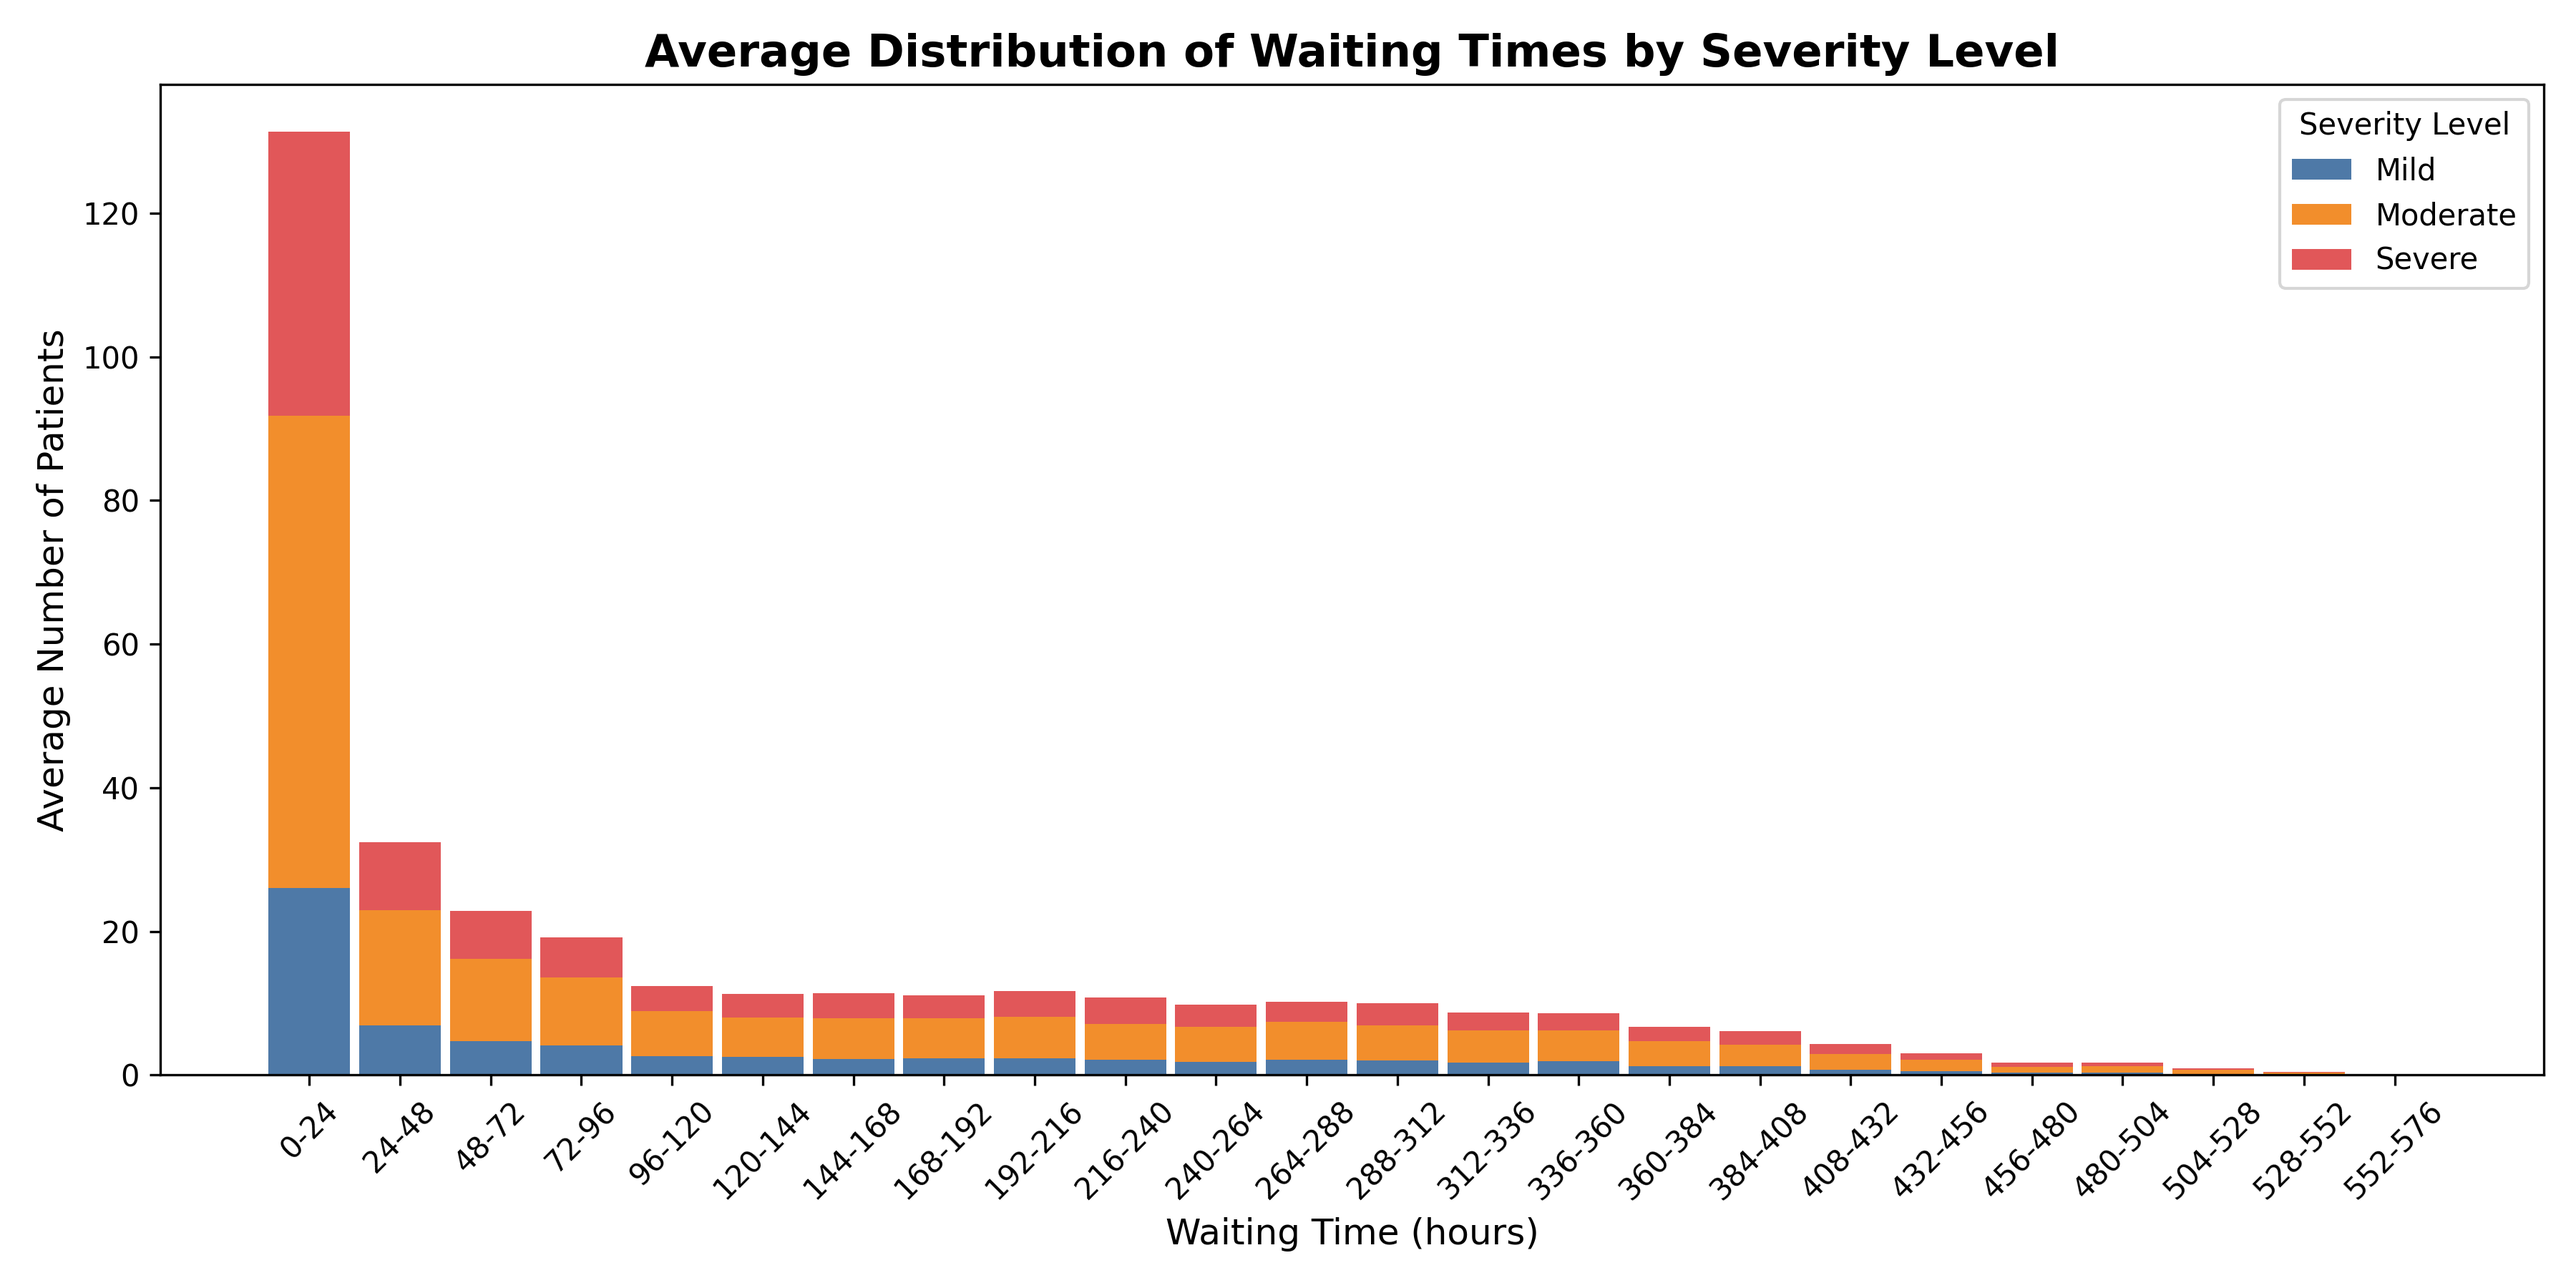
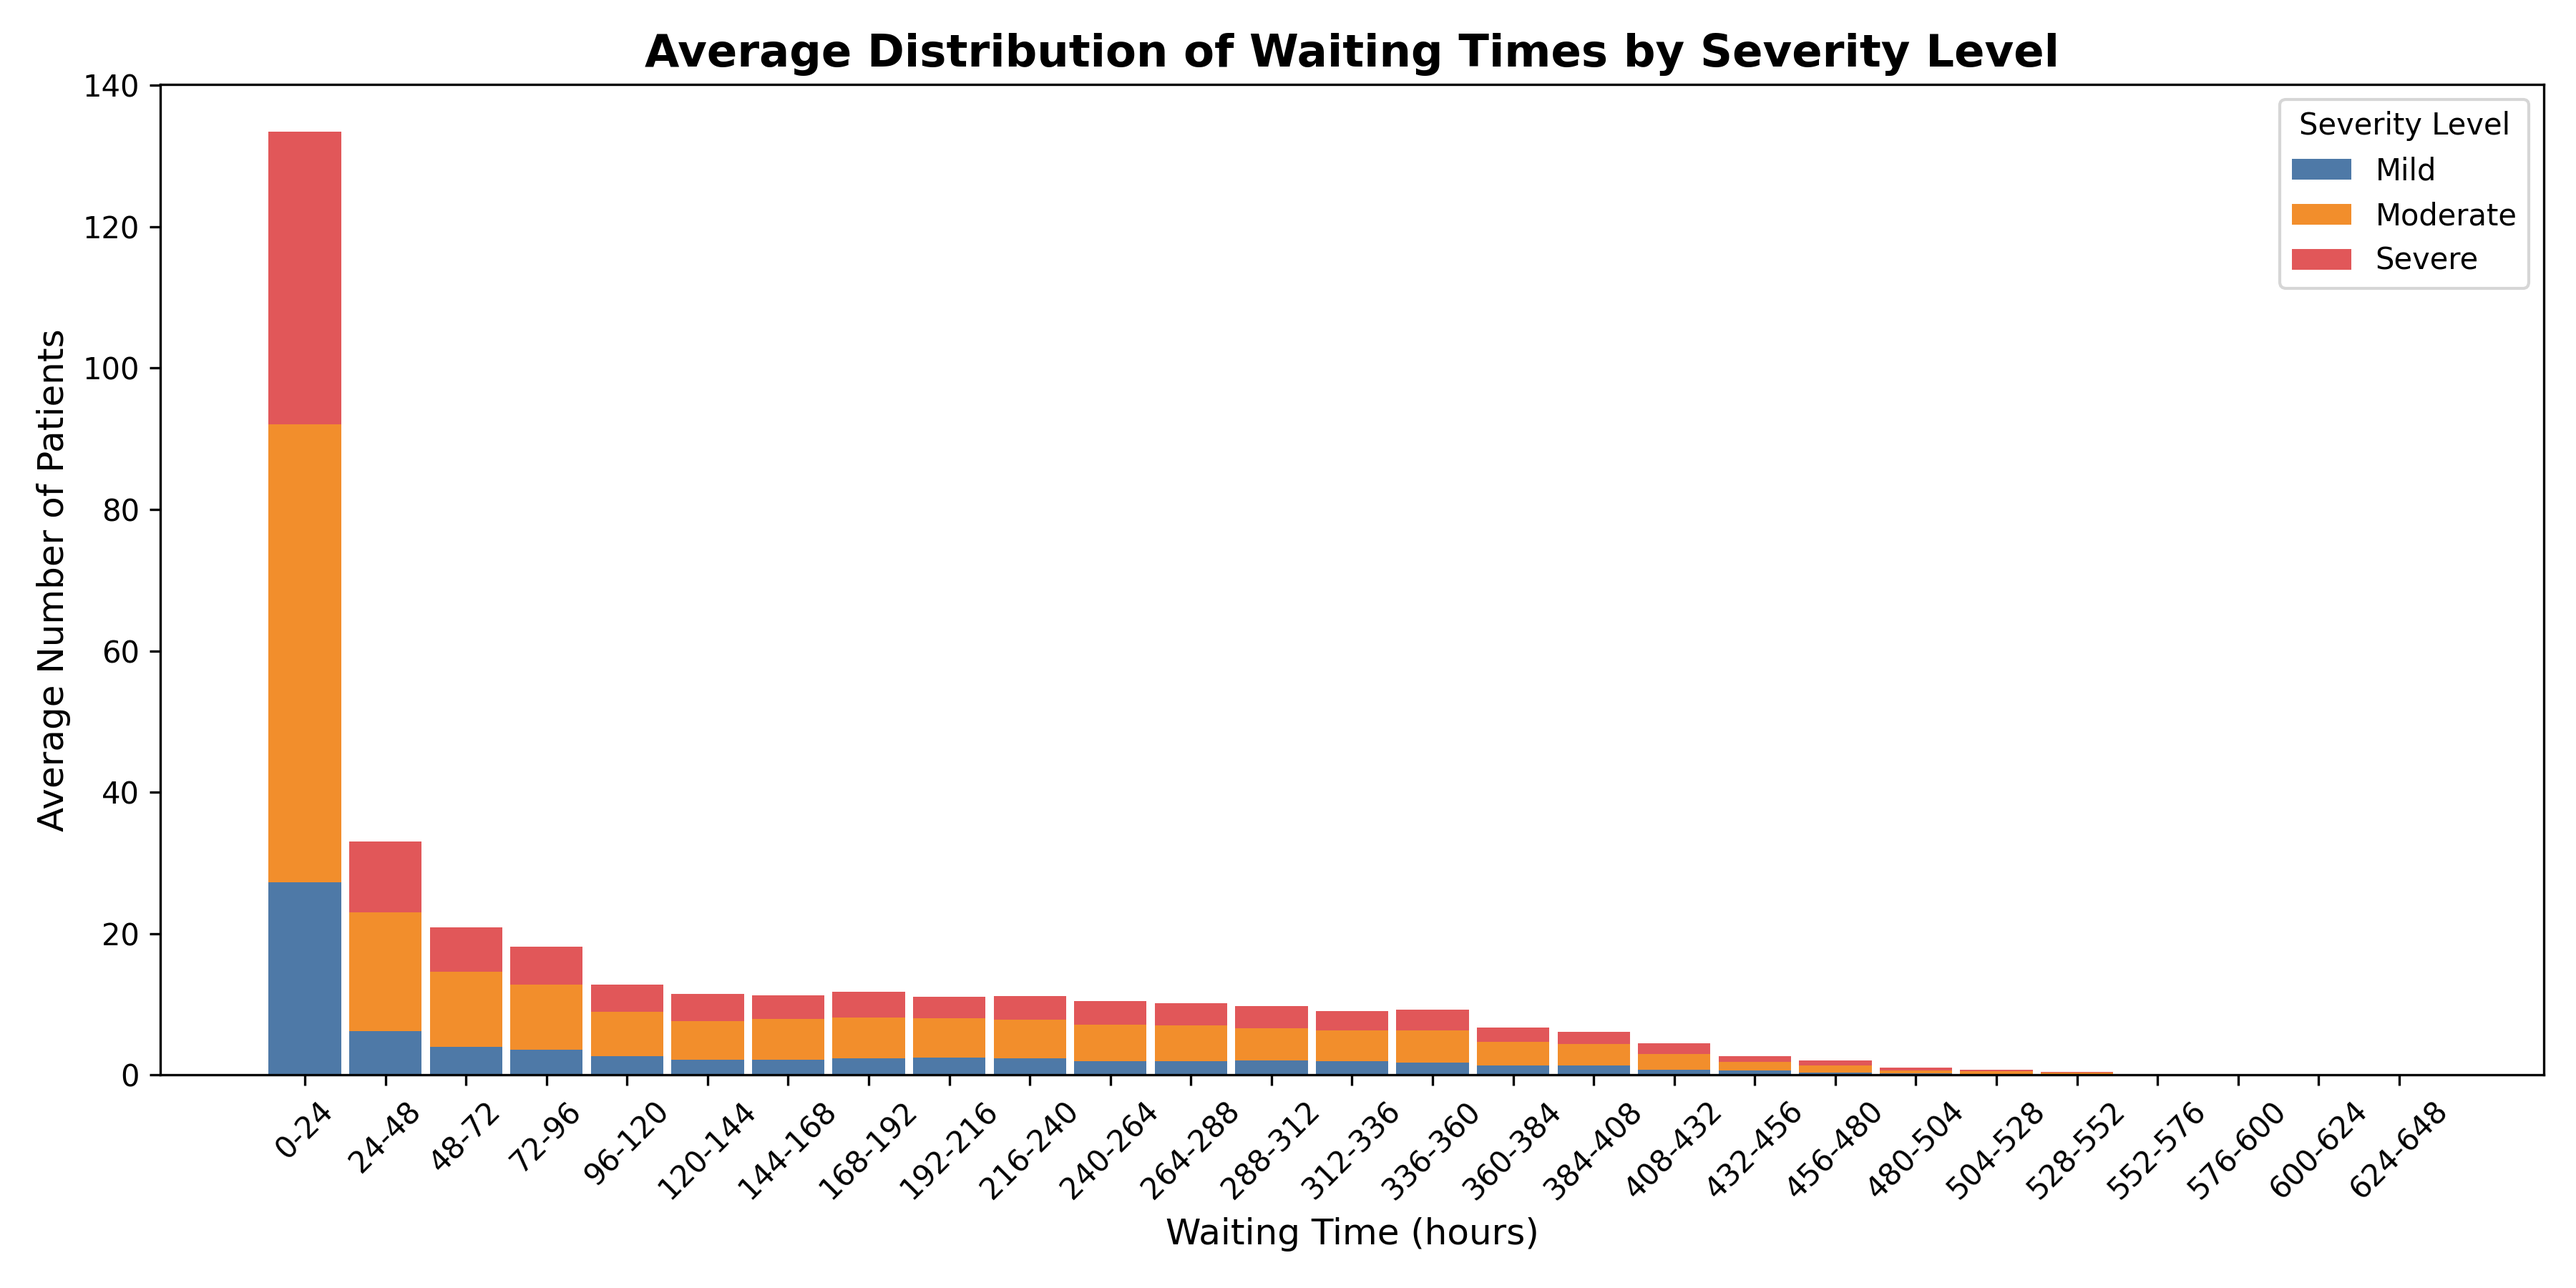
sensitivity

diff --git a/SensitivityAnalysis.py b/SensitivityAnalysis.py
@@ -4,6 +4,11 @@ import numpy as np
 from Part_2_CareGiver.CareGiverMain import run_multiple_simulations, penalty_average_2
 from Part_1_IcuQueue.IcuQueueMain import run_multiple_simulations, penalty_average_1
 import sys
+import random
+
+random_seed = 5
+random.seed(random_seed)
+np.random.seed(random_seed)
 
 project_root = '/Users/李奕瑶/IND-ENG-174'
 sys.path.append(project_root)
@@ -12,7 +17,7 @@ sys.path.append(project_root)
 random_seed = 5
 np.random.seed(random_seed)
 
-def run_sensitivity_analysis( sample_size=3, delta_arrival=0.5, delta_length_of_stays =0.5, delta_request_frequency = 0.5, delta_mean_service_time = 0.1):
+def run_sensitivity_analysis( sample_size=5, delta_arrival=0.8, delta_length_of_stays =0.6, delta_request_frequency = 0.5, delta_mean_service_time = 0.08):
    
     results = []
 
@@ -47,9 +52,7 @@ def run_sensitivity_analysis( sample_size=3, delta_arrival=0.5, delta_length_of_
 
 
 def plot_tornado_chart(results_df):
-    """
-    根据灵敏度分析的结果绘制 Tornado 图。
-    """
+    
     results_df = results_df.sort_values(by="Effect", ascending=False)
 
     fig, ax = plt.subplots(figsize=(10, 6))

diff --git a/Part_1_IcuQueue/ArrivalProcess.py b/Part_1_IcuQueue/ArrivalProcess.py
@@ -3,7 +3,7 @@ import random
 
 
 time_horizon = 10 # If you want to modify this parameter, please simultaneously modify 'time_horizon' in Part_2_CareGiver/CareRequest.py
-lambda_max = 3.0 
+lambda_max = 4.0 
 severity_levels = [1, 2, 3] # 1 - Mild; 2 - Moderate; 3 - Severe
 probabilities = [0.2, 0.5, 0.3] 
 average_length_of_stays = [3, 7, 15] # averagely, Mild - 3 days; Moderate - 7 days; Severe - 15 days.
